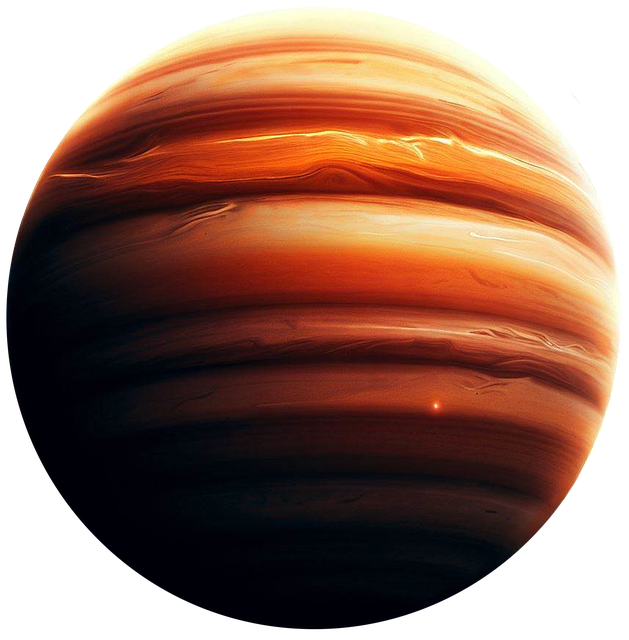
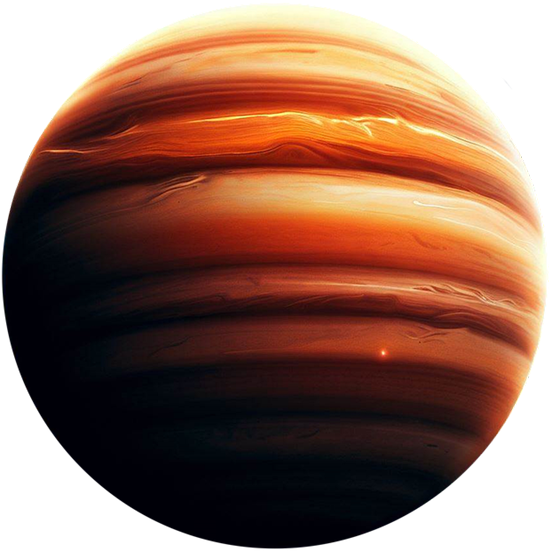
worlds spinning

diff --git a/src/components/styles/QuoteButton.css b/src/components/styles/QuoteButton.css
@@ -1,3 +1,4 @@
+
 .change__container {
   display: flex;
   position: fixed;
@@ -9,7 +10,7 @@
 }
 
 .change__button {
-  font-size: 25px;
+  font-size: 20px;
   color: blanchedalmond;
   background-image: linear-gradient(black, rgba(56, 7, 30, 0.7));
   appearance: none;
@@ -18,18 +19,20 @@
   text-align: center;
   outline: none;
   color: #fff;
-  background-color: #610d0d;
-  box-shadow: 0 9px #525252;
+  background-color: #961313;
+  box-shadow: 0 9px #111111;
   transition: background-color 0.3s ease;
 }
 
 .change__button:hover {
   background-color: rgb(255, 0, 0);
+  filter: brightness(1.3);
 }
 
 .change__button:active {
-  box-shadow: 0 5px #3f3f3f;
+  box-shadow: 0 5px #140c1d;
   transform: translateY(4px);
+  background-color: grey;
 }
 
 @media (min-width: 750px) {

diff --git a/index.html b/index.html
@@ -3,7 +3,7 @@
   <head>
     <meta charset="UTF-8" />
     <link rel="icon" href="public/Icon/icon.png" />
-    <script src="https://unpkg.com/boxicons@2.1.4/dist/boxicons.js"></script>
+    <script src="https://unpkg.com/boxicons@latest/dist/boxicons.js"></script>
     <link href="https://fonts.googleapis.com/css2?family=Orbitron:wght@400;600;700&display=swap" rel="stylesheet">
     <meta name="viewport" content="width=device-width, initial-scale=1.0" />
     <title>Galaxy Quotes</title>

diff --git a/src/App.css b/src/App.css
@@ -22,3 +22,16 @@
 .bg6 {
   background-image: var(--bg-gradient), url("../public/images/space6.jpg");
 }
+
+.bg7 {
+  background-image: var(--bg-gradient), url("../public/images/space7.jpg");
+}
+.bg8 {
+  background-image: var(--bg-gradient), url("../public/images/space8.jpg");
+}
+.bg9 {
+  background-image: var(--bg-gradient), url("../public/images/space9.jpg");
+}
+.bg10 {
+  background-image: var(--bg-gradient), url("../public/images/space10.jpg");
+}

diff --git a/src/components/styles/Planets.css b/src/components/styles/Planets.css
@@ -18,7 +18,22 @@
   background-repeat: no-repeat;
   background-position: center;
   background-size: cover;
+  border-radius: 50%;
+  box-shadow: rgba(167, 86, 48, 0.363) 0px 22px 70px 4px;
+  animation: rotatePlanet 100s linear infinite; 
 }
+
+
+@keyframes rotatePlanet {
+  0% {
+    transform: rotate(0deg)
+  }
+  100% {
+    transform: rotate(-360deg)
+  }
+}
+
+
 @media (min-width: 750px) {
   .planet__container {
     height: 400px;

diff --git a/src/App.jsx b/src/App.jsx
@@ -6,7 +6,7 @@ import QuoteBox from "./components/QuoteBox";
 import quotes from "./db/quote.json";
 import QuoteButton from "./components/QuoteButton";
 import QuoteFooter from "./components/QuoteFooter";
-const bgs = ["bg1", "bg2", "bg3", "bg4", "bg5", "bg6"];
+const bgs = ["bg1", "bg2", "bg3", "bg4", "bg5", "bg6", "bg7", "bg8", "bg9", "bg10"];
 const pls = [
   "pl1",
   "pl2",

diff --git a/src/index.css b/src/index.css
@@ -3,8 +3,12 @@
   --txt-shadow: 1px 1px 2px rgb(36, 5, 20), 0 0 1em rgb(34, 5, 46),
   0 0 0.2em rgb(163, 14, 250);
 }
-
+button{
+  font-family: 'orbitron', sans-serif;
+}
 html{
+  font-family: 'Orbitron', sans-serif;
+
   box-sizing: border-box;
 }
 
@@ -17,8 +21,7 @@ html{
 body {
   margin: 0;
   color: whitesmoke;
-  font-family: 'Orbitron', sans-serif;
-
+  
 
 }
 
